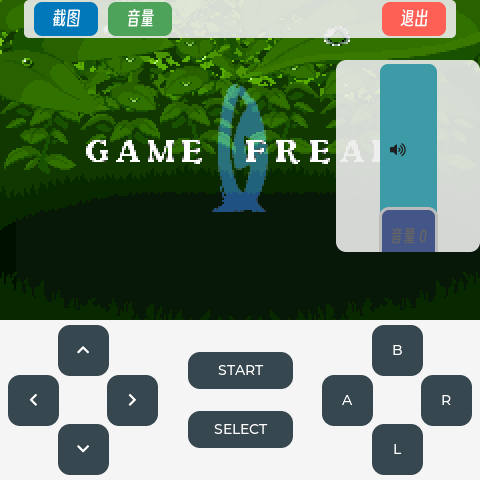
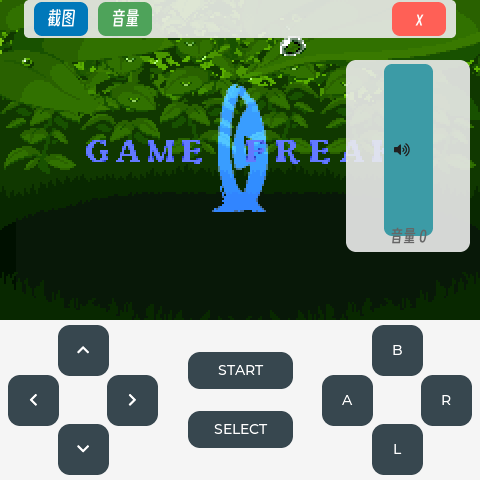
style(overlay): slimmer top-bar buttons, transparent volume knob, eMP-video 500ms expand animation
- Top bar buttons 64x34 -> 54x34 (all three); 退出 label replaced with a
  small lowercase "x" (red button, eMP-video cancelBtn style).
- Volume slider knob made transparent (bg_opa TRANSP default+pressed,
  border 0 - mirrors eMP-video's brightnessSlider) so the volume is
  adjusted by dragging directly on the track; no visible thumb.
- Volume bar body 144 -> 124 wide, resting position moved 10px further off
  the right edge (OVERLAY_VOL_BAR_X = 480 - 124 - 10).
- Enter/exit animations now mirror eMP-video exactly: 500ms ease-out with
  an expand effect - top bar slides down while growing from 20px wide,
  volume bar slides in while growing from 30px tall (wrapperTop /
  wrapperSlider style).

Board-verified: screenshots show 54px buttons (x-runs 34-87/98-151/392-445),
knob color #445588 no longer present (0 px), volume track still rendered,
both bars fully hide after right/up swipes.

diff --git a/src/gba_core/gba_overlay.c b/src/gba_core/gba_overlay.c
@@ -20,8 +20,10 @@
 #include <stdio.h>
 
 #define OVERLAY_TOP_BAR_H   38
-#define OVERLAY_VOL_BAR_W   144
+#define OVERLAY_VOL_BAR_W   124   /* 144 - 20: narrower body */
 #define OVERLAY_VOL_BAR_H   192
+#define OVERLAY_VOL_BAR_X   (GBA_SCREEN_W - OVERLAY_VOL_BAR_W - 10)  /* 10px off the right edge */
+#define OVERLAY_ANIM_TIME   500   /* eMP-video: 500ms ease-out */
 
 /* --------------------------------------------------------------------------
  * small helpers
@@ -76,14 +78,13 @@ static lv_obj_t* vol_slider_create(lv_obj_t* parent)
     lv_obj_set_size(obj, lv_pct(40), lv_pct(90));
     lv_obj_align(obj, LV_ALIGN_CENTER, 0, -6);
 
-    /* knob */
-    lv_obj_set_style_border_width(obj, 3, LV_PART_KNOB);
-    lv_obj_set_style_border_color(obj, lv_color_hex(0xbbbbbb), LV_PART_KNOB);
-    lv_obj_set_style_pad_all(obj, 1, LV_PART_KNOB);
+    /* knob: transparent (like eMP-video's brightnessSlider) - drag directly
+     * on the track, no visible thumb */
+    lv_obj_set_style_bg_opa(obj, LV_OPA_TRANSP, LV_PART_KNOB | LV_STATE_DEFAULT);
+    lv_obj_set_style_bg_opa(obj, LV_OPA_TRANSP, LV_PART_KNOB | LV_STATE_PRESSED);
+    lv_obj_set_style_border_width(obj, 0, LV_PART_KNOB);
     lv_obj_set_style_radius(obj, 10, LV_PART_KNOB);
-    lv_obj_set_style_bg_opa(obj, LV_OPA_COVER, LV_PART_KNOB | LV_STATE_DEFAULT);
-    lv_obj_set_style_bg_opa(obj, LV_OPA_60, LV_PART_KNOB | LV_STATE_PRESSED);
-    lv_obj_set_style_bg_color(obj, lv_color_hex(0x445588), LV_PART_KNOB);
+    lv_obj_set_style_pad_all(obj, 1, LV_PART_KNOB);
 
     /* main track */
     lv_obj_set_style_radius(obj, 8, LV_PART_MAIN);
@@ -106,32 +107,35 @@ static lv_obj_t* vol_slider_create(lv_obj_t* parent)
  * show / hide
  * ------------------------------------------------------------------------ */
 
+/* eMP-video style enter/exit: 500ms ease-out with an "expand" effect -
+ * the top bar slides down while growing from 20px wide, the volume bar
+ * slides in while growing from 30px tall (mirrors wrapperTop/wrapperSlider). */
 static void top_bar_show(gba_overlay_t* ov)
 {
     ov->top_visible = true;
-    gba_anim_obj(ov->top_bar, (lv_anim_exec_xcb_t)lv_obj_set_y,
-                 -OVERLAY_TOP_BAR_H, 0, 280);
+    gba_anim_obj(ov->top_bar, (lv_anim_exec_xcb_t)lv_obj_set_y, -40, 0, OVERLAY_ANIM_TIME);
+    gba_anim_obj(ov->top_bar, (lv_anim_exec_xcb_t)lv_obj_set_width, 20, GBA_SCREEN_W * 9 / 10, OVERLAY_ANIM_TIME);
 }
 
 static void top_bar_hide(gba_overlay_t* ov)
 {
     ov->top_visible = false;
-    gba_anim_obj(ov->top_bar, (lv_anim_exec_xcb_t)lv_obj_set_y,
-                 0, -OVERLAY_TOP_BAR_H, 280);
+    gba_anim_obj(ov->top_bar, (lv_anim_exec_xcb_t)lv_obj_set_y, 0, -40, OVERLAY_ANIM_TIME);
+    gba_anim_obj(ov->top_bar, (lv_anim_exec_xcb_t)lv_obj_set_width, GBA_SCREEN_W * 9 / 10, 20, OVERLAY_ANIM_TIME);
 }
 
 static void vol_bar_show(gba_overlay_t* ov)
 {
     ov->vol_visible = true;
-    gba_anim_obj(ov->vol_bar, (lv_anim_exec_xcb_t)lv_obj_set_x,
-                 GBA_SCREEN_W, GBA_SCREEN_W - OVERLAY_VOL_BAR_W, 280);
+    gba_anim_obj(ov->vol_bar, (lv_anim_exec_xcb_t)lv_obj_set_x, GBA_SCREEN_W, OVERLAY_VOL_BAR_X, OVERLAY_ANIM_TIME);
+    gba_anim_obj(ov->vol_bar, (lv_anim_exec_xcb_t)lv_obj_set_height, 30, OVERLAY_VOL_BAR_H, OVERLAY_ANIM_TIME);
 }
 
 static void vol_bar_hide(gba_overlay_t* ov)
 {
     ov->vol_visible = false;
-    gba_anim_obj(ov->vol_bar, (lv_anim_exec_xcb_t)lv_obj_set_x,
-                 GBA_SCREEN_W - OVERLAY_VOL_BAR_W, GBA_SCREEN_W, 280);
+    gba_anim_obj(ov->vol_bar, (lv_anim_exec_xcb_t)lv_obj_set_x, OVERLAY_VOL_BAR_X, GBA_SCREEN_W, OVERLAY_ANIM_TIME);
+    gba_anim_obj(ov->vol_bar, (lv_anim_exec_xcb_t)lv_obj_set_height, OVERLAY_VOL_BAR_H, 30, OVERLAY_ANIM_TIME);
 }
 
 /* --------------------------------------------------------------------------
@@ -238,24 +242,24 @@ gba_overlay_t* gba_overlay_create(lv_obj_t* root,
     /* absolute position (no alignment: set_x/y on an aligned object is a
      * relative offset which confused the hide/show animation) */
     lv_obj_set_pos(bar, (GBA_SCREEN_W - GBA_SCREEN_W * 9 / 10) / 2,
-                   top_pinned ? 0 : -OVERLAY_TOP_BAR_H);
+                   top_pinned ? 0 : -40);
     lv_obj_set_style_bg_opa(bar, LV_OPA_90, 0);
     lv_obj_set_style_bg_color(bar, lv_color_hex(0xEEEEEE), 0);
     lv_obj_set_style_radius(bar, 5, 0);
     ov->top_bar = bar;
     ov->top_visible = top_pinned;
 
-    lv_obj_t* b = overlay_btn_create(bar, "截图", lv_color_hex(0x0078BA), lv_color_hex(0x005E93), 64, 34);
+    lv_obj_t* b = overlay_btn_create(bar, "截图", lv_color_hex(0x0078BA), lv_color_hex(0x005E93), 54, 34);
     lv_obj_align(b, LV_ALIGN_LEFT_MID, 10, 0);
     lv_obj_add_event_cb(b, overlay_event_cb, LV_EVENT_CLICKED, ov);
     ov->top_screenshot_btn = b;
 
-    b = overlay_btn_create(bar, "音量", lv_color_hex(0x4EA35A), lv_color_hex(0x3D8346), 64, 34);
-    lv_obj_align(b, LV_ALIGN_LEFT_MID, 84, 0);
+    b = overlay_btn_create(bar, "音量", lv_color_hex(0x4EA35A), lv_color_hex(0x3D8346), 54, 34);
+    lv_obj_align(b, LV_ALIGN_LEFT_MID, 74, 0);
     lv_obj_add_event_cb(b, overlay_event_cb, LV_EVENT_CLICKED, ov);
     ov->top_volume_btn = b;
 
-    b = overlay_btn_create(bar, "退出", lv_color_hex(0xFF6056), lv_color_hex(0xE44543), 64, 34);
+    b = overlay_btn_create(bar, "x", lv_color_hex(0xFF6056), lv_color_hex(0xE44543), 54, 34);
     lv_obj_align(b, LV_ALIGN_RIGHT_MID, -10, 0);
     lv_obj_add_event_cb(b, overlay_event_cb, LV_EVENT_CLICKED, ov);
     ov->top_exit_btn = b;
@@ -265,7 +269,8 @@ gba_overlay_t* gba_overlay_create(lv_obj_t* root,
     lv_obj_remove_style_all(vbar);
     lv_obj_clear_flag(vbar, LV_OBJ_FLAG_SCROLLABLE);
     lv_obj_set_size(vbar, OVERLAY_VOL_BAR_W, OVERLAY_VOL_BAR_H);
-    /* top-right (-20, 60) in absolute coords, off-screen right when hidden */
+    /* absolute coords: visible at OVERLAY_VOL_BAR_X (=10px off the right
+     * edge, y=60), off-screen right (x=GBA_SCREEN_W) when hidden */
     lv_obj_set_pos(vbar, GBA_SCREEN_W, 60);
     lv_obj_set_style_bg_opa(vbar, LV_OPA_90, 0);
     lv_obj_set_style_bg_color(vbar, lv_color_hex(0xEEEEEE), 0);

diff --git a/README.md b/README.md
@@ -106,16 +106,16 @@ export LV_GBA_AUDIO_DEVICE=default   # ALSA PCM 设备（可选）
 
 - **ROM 菜单页**：顶部栏**常驻**（不可通过手势收回），**所有手势禁用**（音量条也不可手势呼出）。「退出」退出整个应用。
 - **游戏页**：顶部栏与音量条初始隐藏，手势可用：
-  - **下滑** → 顶部栏滑入（宽 90%、浅灰条，eMP-video topCont 风格）：**截图 / 音量 / 退出** 三个按钮（SmileySans 中文文字）
+  - **下滑** → 顶部栏滑入（宽 90%、浅灰条，eMP-video topCont 风格）：**截图 / 音量 / x** 三个按钮（54×34，SmileySans，退出用红色小写 `x`）
   - **上滑** → 顶部栏收回（音量条开着时也可收回）
-  - **左划** → 音量条从右侧滑入：样式照抄 eMP-video `sliderContCreate()`（容器 `#eeeeee` 90% 圆角 10、轨道 `#3c9ba6`、指示 `#a4d9b2`、旋钮 `#445588` 灰边圆钮，含 `LV_SYMBOL_VOLUME_MAX` 图标），竖向 0-100 滑块拖动实时调用 `gba_audio_set_volume`
+  - **左划** → 音量条从右侧滑入（距右边缘 10px）：样式照抄 eMP-video `sliderContCreate()`（容器 `#eeeeee` 90% 圆角 10、轨道 `#3c9ba6`、指示 `#a4d9b2`、**旋钮透明**——直接上下滑轨道调音量，含 `LV_SYMBOL_VOLUME_MAX` 图标），竖向 0-100 滑块拖动实时调用 `gba_audio_set_volume`
   - **右划** → 音量条收回
 - 音量条打开时**忽略下滑**（避免拖动滑块误呼出顶部栏）；顶部栏「音量」按钮也可开关音量条。
 - 顶部栏按钮：
   - **截图**：抓取 `/dev/fb0` 当前可见页，写出 24-bit BMP 到 `/root/screenshot_<时间戳>.bmp`
   - **音量**：开关音量条
-  - **退出**：返回 ROM 选择菜单（同 SELECT 长按）
-- 手势由多点触控驱动（`input_mt.cpp`）按触点轨迹检测，滑动超过 **90px** 触发一次（单指）；滑动动画 `lv_anim` 280ms ease-out。
+  - **x（退出）**：返回 ROM 选择菜单（同 SELECT 长按）
+- 手势由多点触控驱动（`input_mt.cpp`）按触点轨迹检测，滑动超过 **90px** 触发一次（单指）；进出场动画照抄 eMP-video：**500ms ease-out + 展开效果**（顶栏下滑时从 20px 宽展开、音量条滑入时从 30px 高展开）。
 - 滑动回调生命周期：**退出游戏时自动清空全局 swipe 回调**（`gba_emu` 删除时 `lv_gba_emu_set_swipe_cb(NULL, NULL)`），避免菜单页滑动踩到已释放的模拟器上下文（旧版在此场景偶发 SIGSEGV，已修复）。
 - LVGL v9 注意：已对齐对象 `lv_obj_set_x/y` 设置的是**相对对齐的偏移**，进出场动画须用 `lv_obj_set_pos` 绝对定位；菜单页的悬浮层要挂在**普通容器**（非 `lv_list`，其 flex 布局会打乱悬浮对象）。
 
